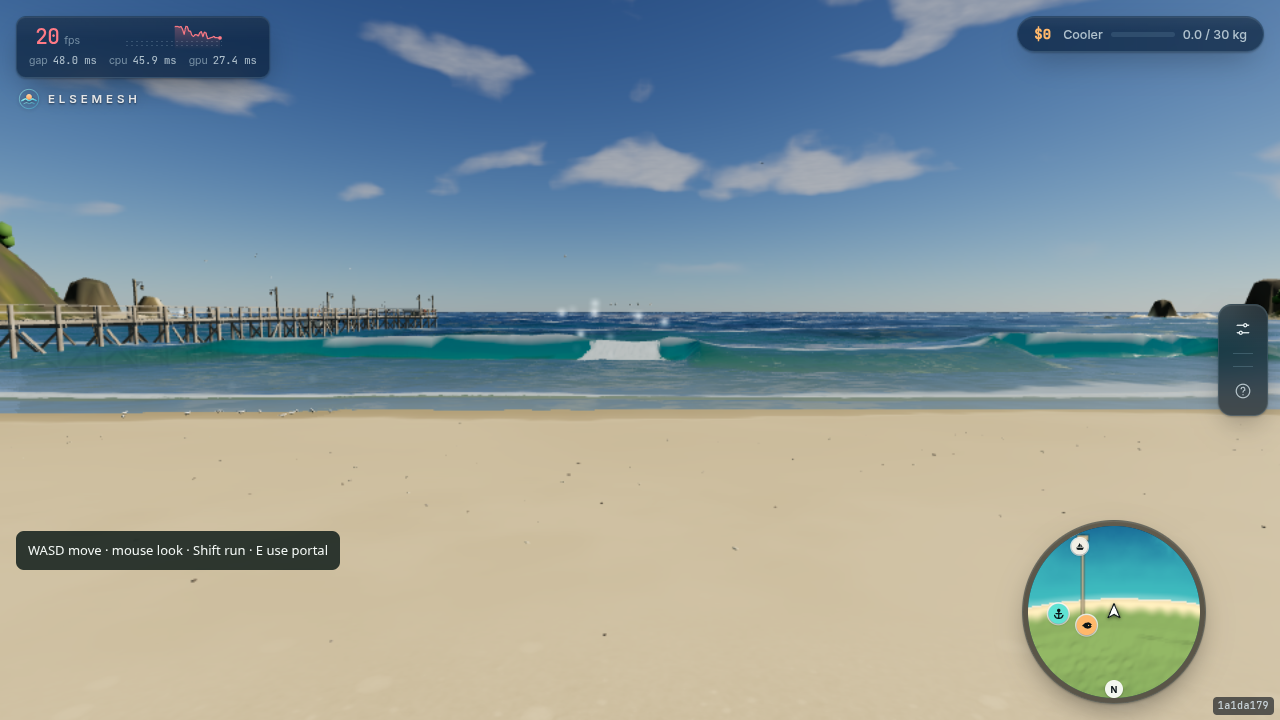
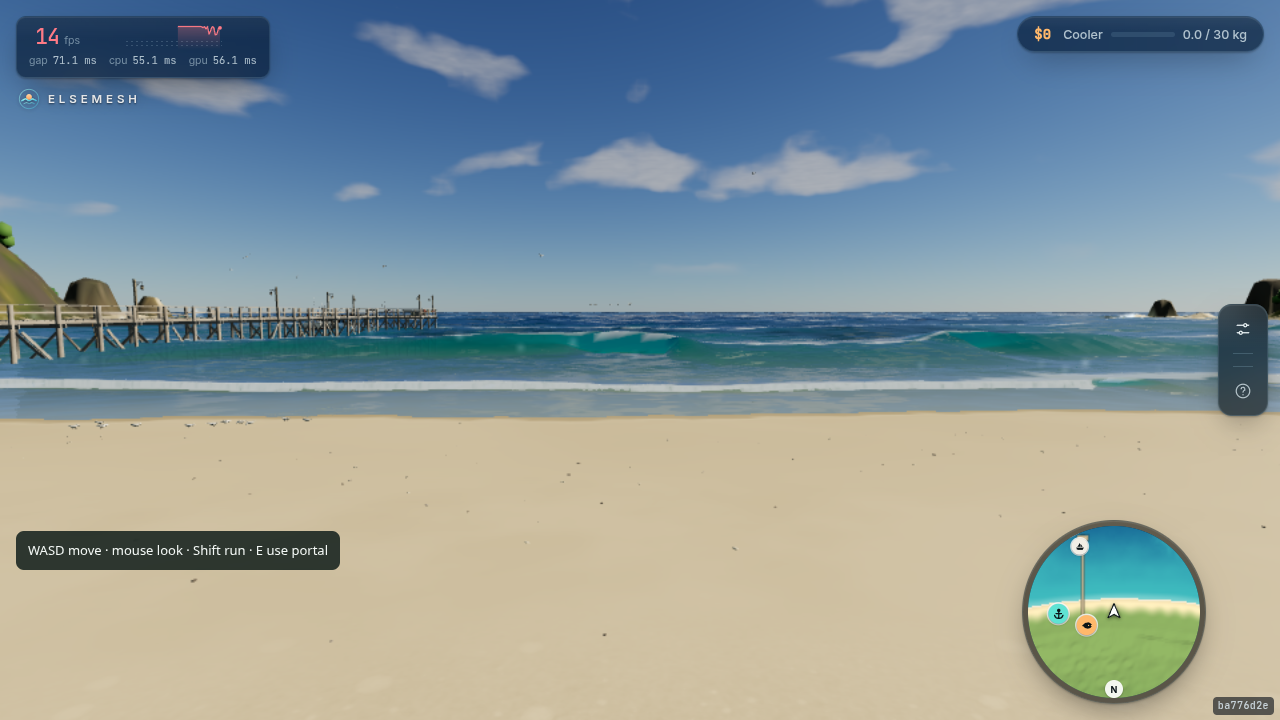
fix(webgl): align shared water simulation time
Use the engine simulation clock in WebGL water, shoreline, terrain, and component hooks. Record the updated phase-aware capture and matched water optics evidence.

diff --git a/src/fallback/WebGLFallback.js b/src/fallback/WebGLFallback.js
@@ -47,6 +47,7 @@ import { worldEnvironmentSettings } from '../network/WorldExperience.js';
 import { worldHasWater } from '../network/WorldRules.js';
 import { DEFAULT_ENVIRONMENT } from '../core/EnvironmentDefaults.js';
 import { WATER_ABSORPTION, WATER_BACKSCATTER, WATER_IOR, WATER_ROUGHNESS, WATER_SCATTERING } from '../ocean/WaterDefaults.js';
+import { G } from '../engine/render/Frame.js';
 
 const LOCAL_REGION_STREAM_BATCH_SIZE = 1;
 
@@ -960,7 +961,6 @@ export class WebGLFallback {
 		this._resize();
 		window.addEventListener( 'resize', this._resize );
 		window.addEventListener( 'pagehide', () => { this.frameWorkMeter.dispose(); this.shoreWetness?.dispose(); this.webglEnvironment?.dispose(); this.webglAtmosphere?.dispose(); }, { once: true } );
-		this.animationStartTime = performance.now();
 		this.renderer.setAnimationLoop( () => this._frame() );
 		this._startPresence();
 	}
@@ -2210,7 +2210,9 @@ export class WebGLFallback {
 		const now = performance.now(), dt = Math.min( 0.1, Math.max( 0, ( now - ( this.lastFrame || now ) ) / 1000 ) );
 		this.app.updateFPS();
 		this.app.hud?.setStats( { fps: this.app.fps, frameMs: this.app.frameMs, cpuMs: this.app.cpuMs, gpuMs: this.frameWorkMeter.gpuMilliseconds() } );
-		const simulationTime = ( now - this.animationStartTime ) * 0.001;
+		G.dt.value = dt;
+		G.time.value += dt;
+		const simulationTime = G.time.value;
 		this.lastFrame = now;
 		if ( this.shoreWetness ) {
 			this.shoreWetness.update( dt, simulationTime );

diff --git a/SPLIT-progress.md b/SPLIT-progress.md
@@ -69,12 +69,14 @@ parity is complete.
   ports the pre-split WebGPU material's dielectric Fresnel, roughness-adjusted
   sky reflection, GGX direct glint, and depth-dependent sun/sky scattering. The
   shared atmosphere pass supplies the water's sky irradiance, and WebGL uses
-  the renderer's current key-light direction/radiance. In a fresh 1280×720
-  hosted capture at the named 16.2 beach pose and 0.55 exposure, sea-region
-  RGB MAE against pre-split WebGPU falls from 40.88 to 32.31, while full-frame
-  MAE falls from 22.70 to 20.64; sky remains 19.23 and sand 7.16. Wave, cloud,
-  and spray phases are not synchronized, and this software-backed capture does
-  not establish hardware FPS. See the [hosted WebGL water capture](docs/images/tidewater-hosted-webgl-water-2026-11-06.png).
+  the renderer's current key-light direction/radiance. WebGL water, shore,
+  terrain, and world hooks now advance from the engine's shared clamped frame
+  time rather than wall time. In a fresh 1280×720 hosted capture at the named
+  16.2 beach pose and 0.55 exposure, sea-region RGB MAE against pre-split
+  WebGPU falls from 40.88 to 30.34 and full-frame MAE is 20.13; sky is 19.28
+  and sand 7.16. The capture remains unsynchronized to a particular WebGPU
+  frame, and this software-backed result does not establish hardware FPS. See
+  the [hosted WebGL water capture](docs/images/tidewater-hosted-webgl-water-2026-11-06.png).
   Overall parity remains 82%.
 
 - 2026-11-06: The WebGL renderer now builds the same transmittance,
